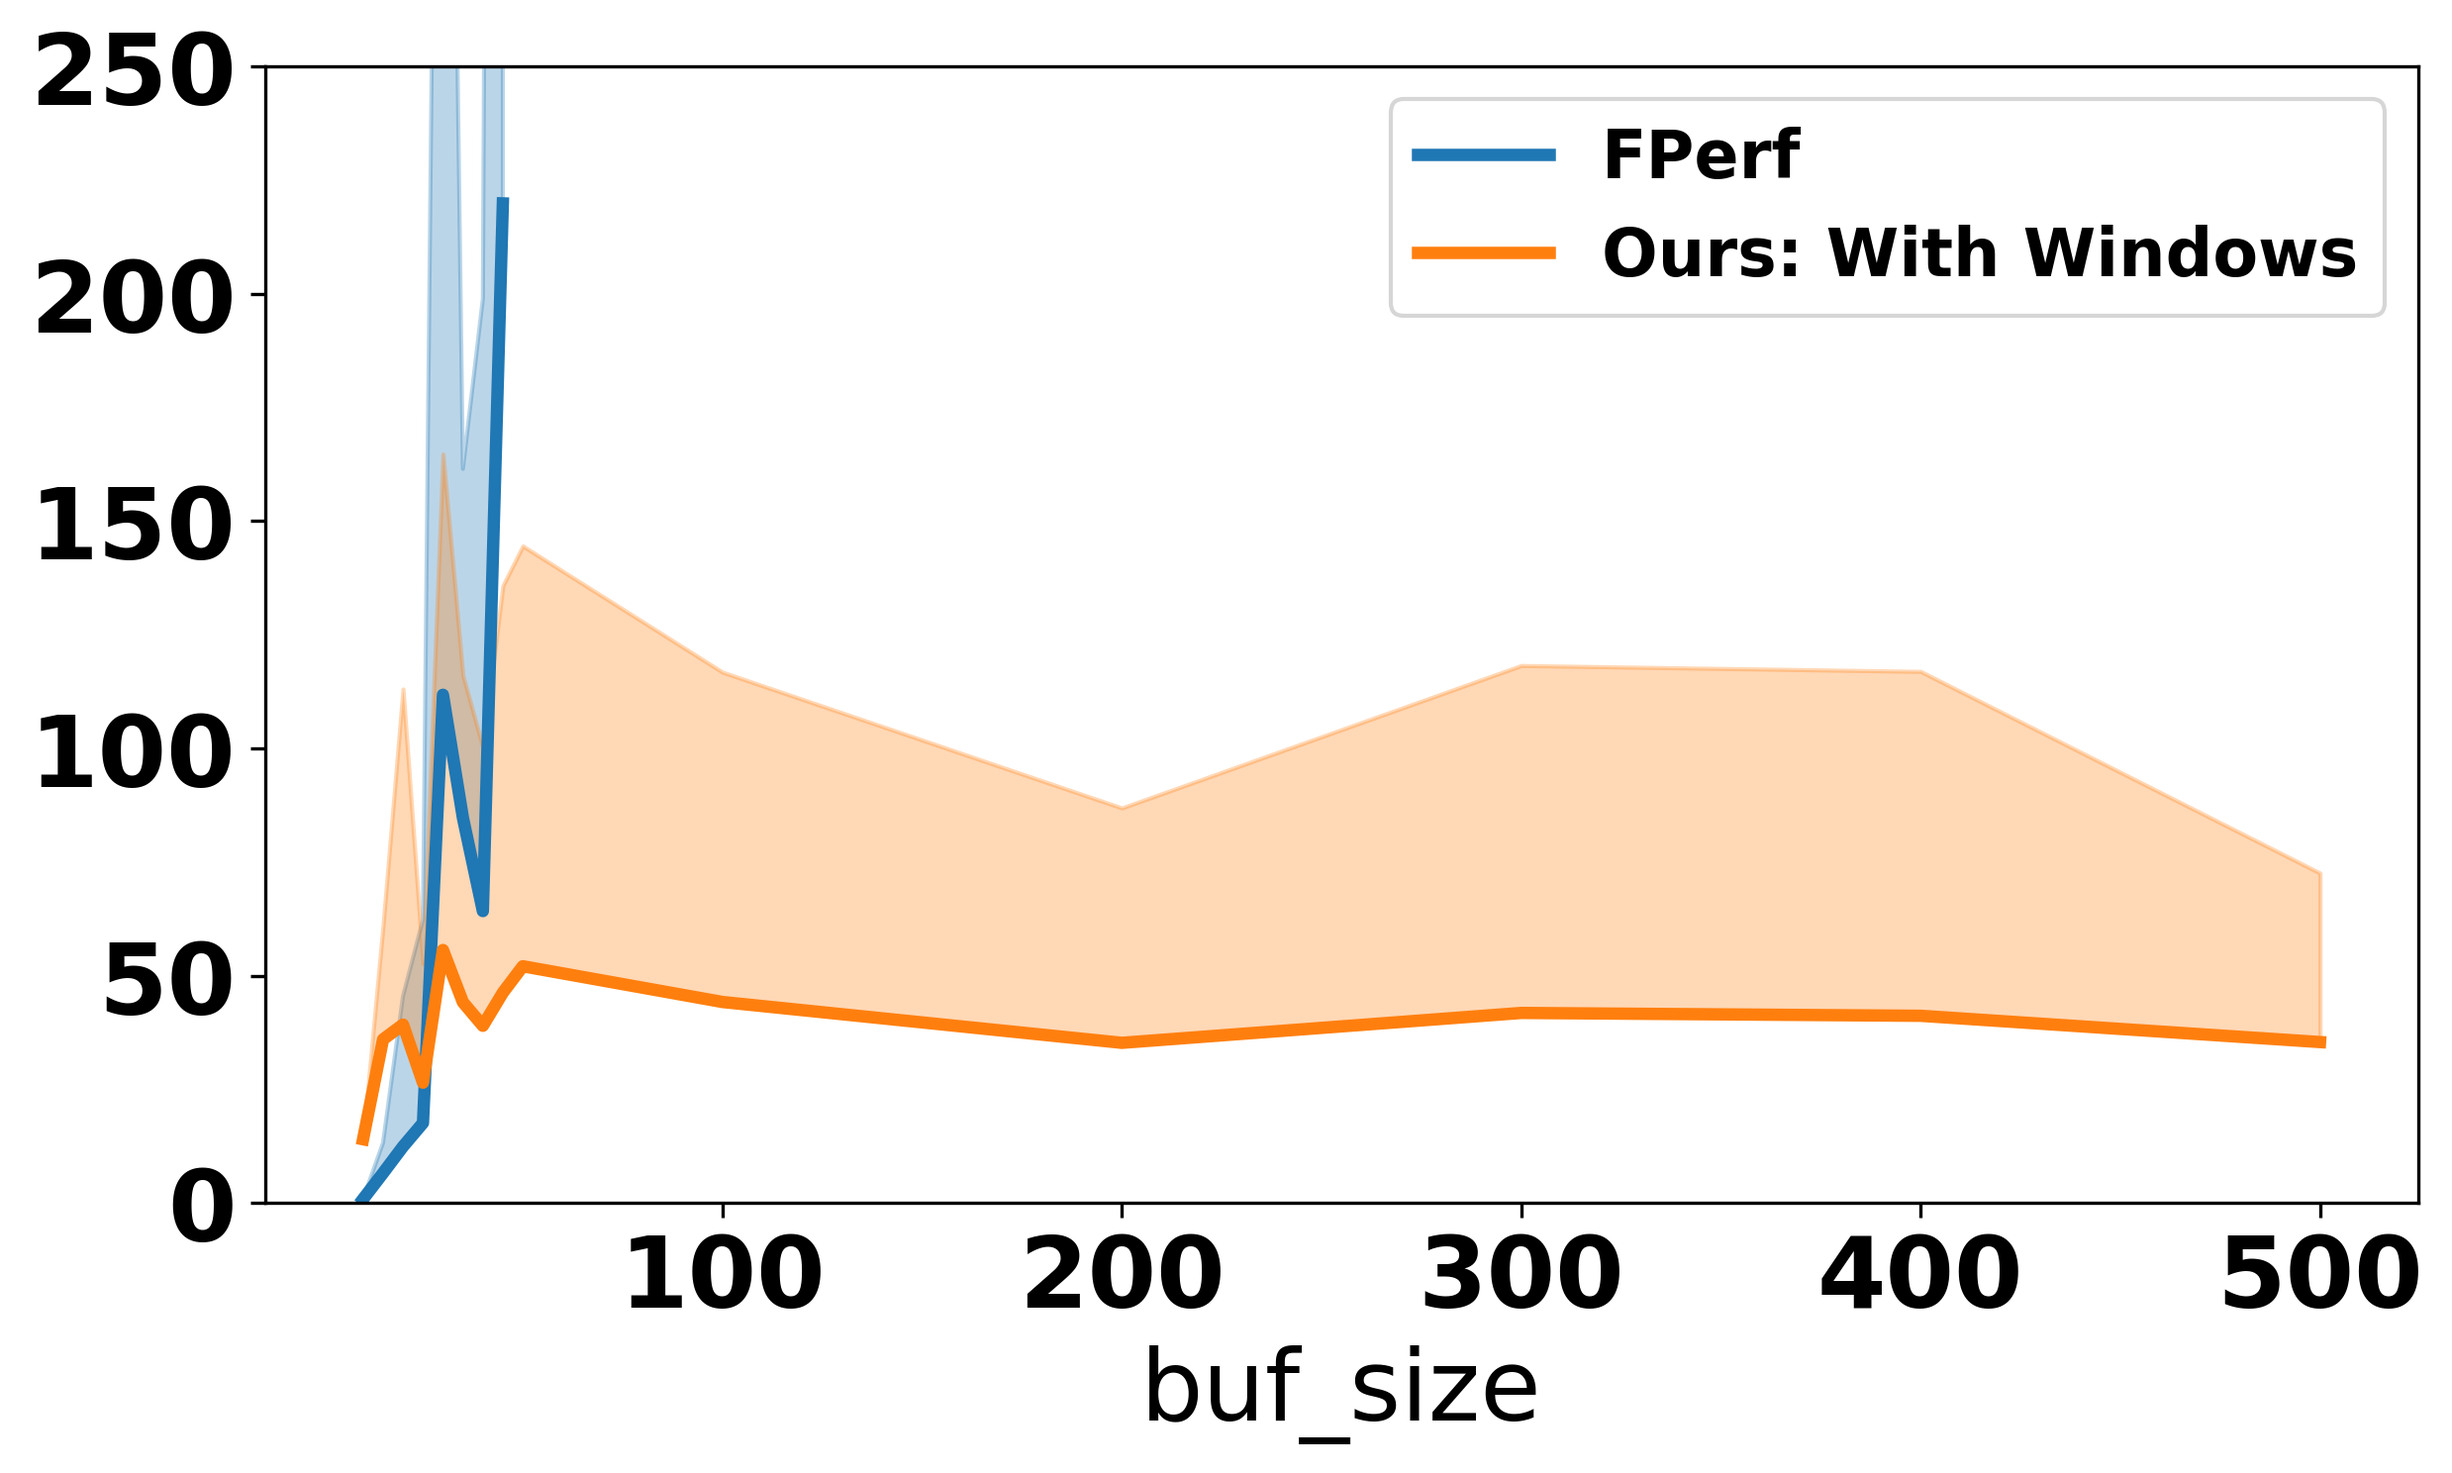
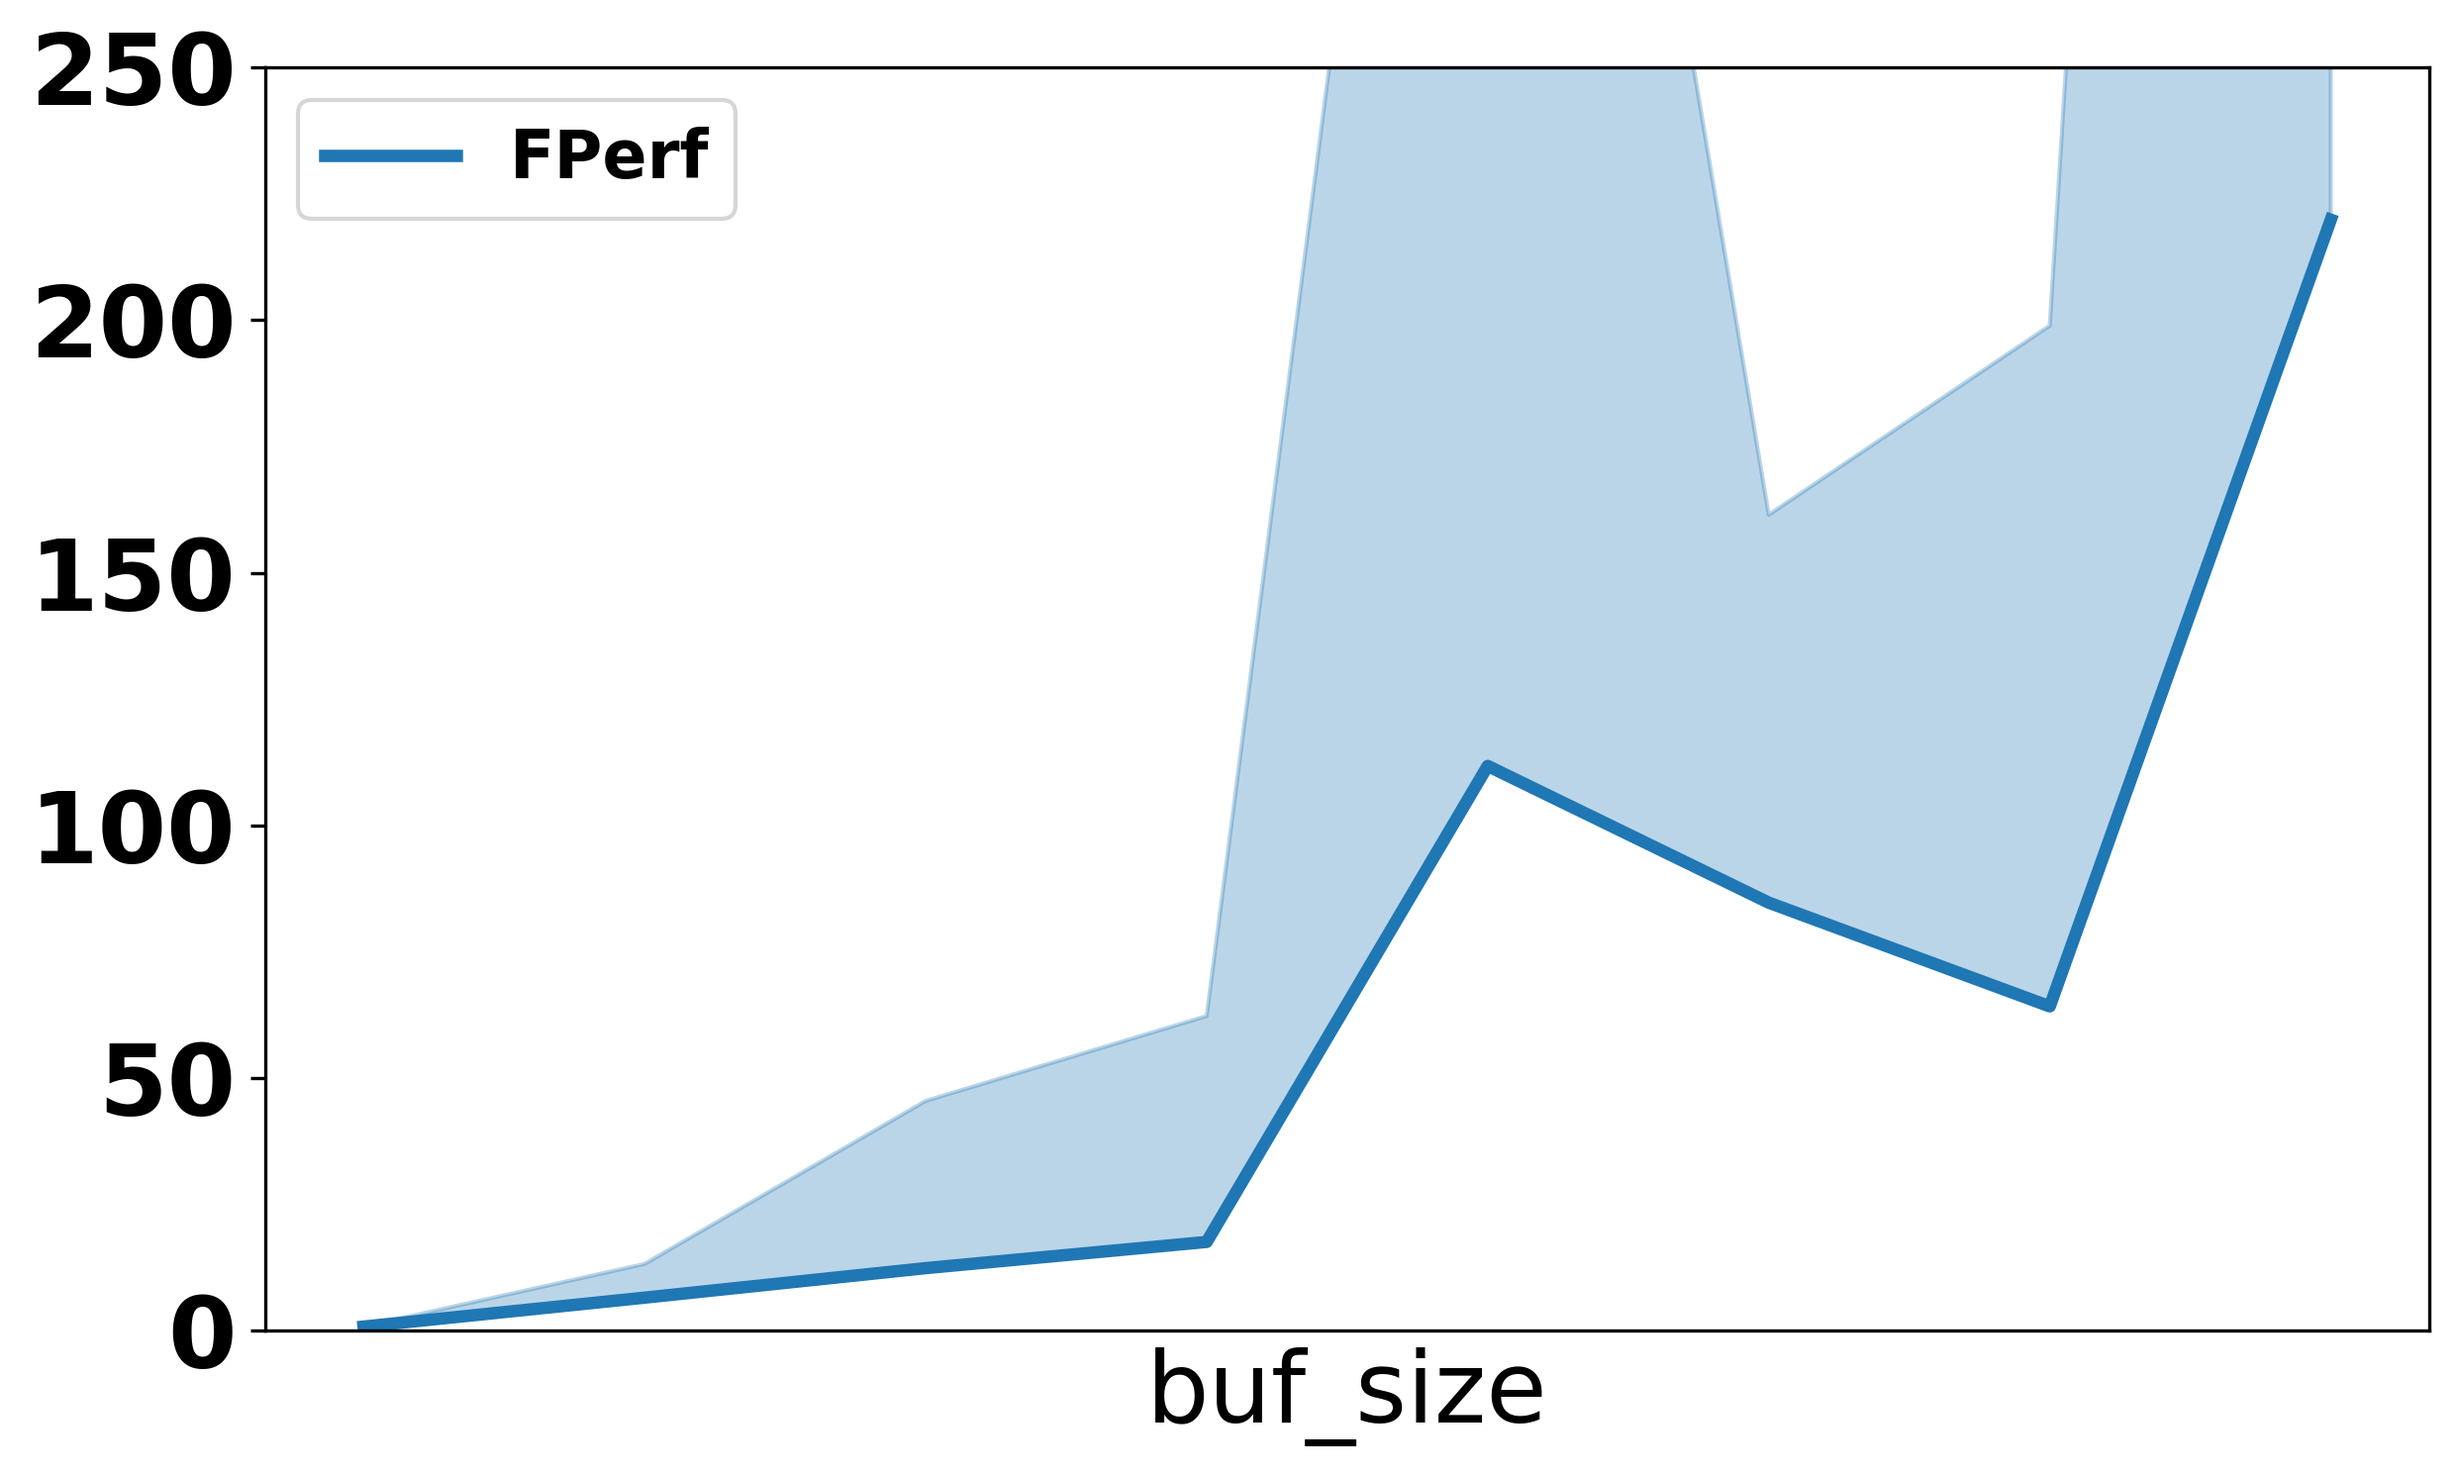
Add loom chart

diff --git a/experiments/new_chart.py b/experiments/new_chart.py
@@ -6,7 +6,7 @@ import seaborn as sns
 import matplotlib.pyplot as plt
 from matplotlib.ticker import StrMethodFormatter, MaxNLocator
 
-TC = "loom.mem"
+TC = "leaf"
 
 plt.rcParams["font.size"] = 24
 plt.rcParams["font.weight"] = "bold"
@@ -47,7 +47,7 @@ def add_fperf_df(tc, buf_size, dfs):
 
 dfs = []
 for i in range(501):
-    add_buffy_df(TC, i, dfs)
+    # add_buffy_df(TC, i, dfs)
     add_fperf_df(TC, i, dfs)
 
 df = pd.concat(dfs)
@@ -102,7 +102,7 @@ for i, (model, group) in enumerate(summary.groupby("model")):
 # plt.fill_between(summary['buf_size'], summary['mean'], summary['p95'], color='red', alpha=0.3, data=summary)
 leg = plt.legend()
 leg.set_title(None)
-plt.ylim(0, 250)
+plt.ylim(0, 2000)
 # plt.ylabel("Verification Time (s)")
 plt.ylabel("")
 plt.tight_layout()
